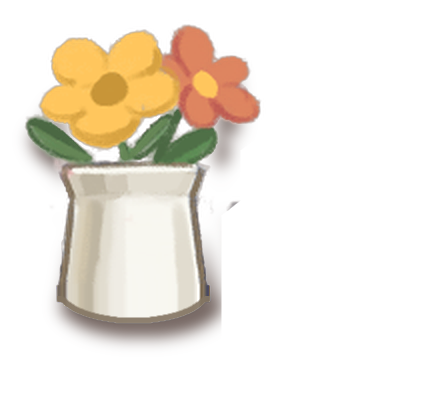
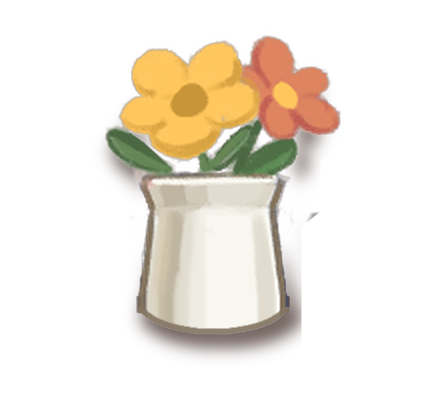
Pots re-centred in their sprite files (the table objects moved back the same amount); chapter 2 kitchen window: the coconut cluster with the apples' halo, a night view that fades with the day's clock (DayNightTint.CurrentStage)

diff --git a/Assets/Scripts/Kitchen/KitchenWindow.cs b/Assets/Scripts/Kitchen/KitchenWindow.cs
@@ -9,22 +9,7 @@ using UnityEngine.UI;
 public static class KitchenWindow
 {
     static readonly Vector2 GlassMin = new Vector2(0.502f, 0.556f), GlassMax = new Vector2(0.922f, 0.803f);
-    const float CoconutX = 0.55f, CoconutY = 0.60f;   // the cluster's place on the palm picture (measured on palm.png)
-
-    static Sprite glowSprite;
-    /// A soft round glow made once at runtime (like the map's three-star glow)
-    static Sprite GlowSprite()
-    {
-        if (glowSprite != null) return glowSprite;
-        const int n = 64; var tex = new Texture2D(n, n, TextureFormat.RGBA32, false) { filterMode = FilterMode.Bilinear };
-        var px = new Color[n * n];
-        for (var y = 0; y < n; y++) for (var x = 0; x < n; x++)
-        {
-            var dx = (x + 0.5f - n / 2f) / (n / 2f); var dy = (y + 0.5f - n / 2f) / (n / 2f);
-            var a = Mathf.Clamp01(1f - Mathf.Sqrt(dx * dx + dy * dy)); px[y * n + x] = new Color(1f, 1f, 1f, a * a * a);
-        }
-        tex.SetPixels(px); tex.Apply(); glowSprite = Sprite.Create(tex, new Rect(0, 0, n, n), new Vector2(0.5f, 0.5f)); return glowSprite;
-    }
+    const float ClusterX = 0.4035f, ClusterY = 0.6275f, ClusterW = 0.2953f, ClusterH = 0.1538f;   // the cluster's box on the palm picture (measured on palm.png)
 
     public static void Apply()
     {
@@ -58,14 +43,43 @@ public static class KitchenWindow
             var prt = (RectTransform)p.transform; prt.anchorMin = new Vector2(0f, 0f); prt.anchorMax = new Vector2(0f, 0f); prt.pivot = new Vector2(0f, 0f);
             var ph = glassH * 1.45f; prt.sizeDelta = new Vector2(ph * palm.rect.width / palm.rect.height, ph); prt.anchoredPosition = new Vector2(-glassW * 0.16f, -glassH * 0.25f);
             var pi = p.GetComponent<Image>(); pi.sprite = palm; pi.preserveAspect = true; pi.raycastTarget = false;
-            // the coconuts glow softly like the apples, so they read as something to pick (the pick object comes with the Coconut cluster)
-            var glow = new GameObject("CoconutGlow", typeof(RectTransform), typeof(Image)); glow.transform.SetParent(prt, false); glow.transform.SetAsFirstSibling();
-            var grt = (RectTransform)glow.transform; grt.anchorMin = grt.anchorMax = new Vector2(CoconutX, CoconutY); grt.sizeDelta = new Vector2(prt.sizeDelta.x * 0.42f, prt.sizeDelta.x * 0.42f);
-            var gi = glow.GetComponent<Image>(); gi.sprite = GlowSprite(); gi.color = new Color(1f, 0.95f, 0.6f, 0.85f); gi.raycastTarget = false;
-            glow.AddComponent<MapGlowPulse>();
+            // the coconut cluster as its own picture with the apples' halo baked in (Resources/Chapter2/coconuts, cut
+            // from the palm at its own spot), so it reads as something to pick; later the Coconut pick object
+            var cluster = Chapter.Art<Sprite>(2, "coconuts");
+            if (cluster != null)
+            {
+                var c = new GameObject("Coconuts", typeof(RectTransform), typeof(Image)); c.transform.SetParent(prt, false);
+                var crt = (RectTransform)c.transform; crt.anchorMin = crt.anchorMax = new Vector2(ClusterX, ClusterY); crt.pivot = new Vector2(0.5f, 0.5f);
+                crt.sizeDelta = new Vector2(prt.sizeDelta.x * ClusterW, prt.sizeDelta.y * ClusterH); crt.anchoredPosition = Vector2.zero;
+                var ci = c.GetComponent<Image>(); ci.sprite = cluster; ci.preserveAspect = true; ci.raycastTarget = false;
+            }
+        }
+
+        // night through the glass (owner, 16 October): the painted beach night fades in over the day picture as the
+        // day's clock reaches dusk and night, and the palm darkens with it
+        var night = Chapter.Art<Sprite>(2, "bg_night");
+        if (night != null)
+        {
+            var nv = new GameObject("BeachNight", typeof(RectTransform), typeof(Image)); nv.transform.SetParent(rt, false); nv.transform.SetSiblingIndex(1);
+            var nrt = (RectTransform)nv.transform; nrt.anchorMin = vrt.anchorMin; nrt.anchorMax = vrt.anchorMax; nrt.sizeDelta = vrt.sizeDelta; nrt.anchoredPosition = vrt.anchoredPosition;
+            var ni = nv.GetComponent<Image>(); ni.sprite = night; ni.preserveAspect = true; ni.raycastTarget = false; ni.color = new Color(1f, 1f, 1f, 0f);
+            var fade = go.AddComponent<KitchenWindowNight>(); fade.night = ni; fade.palm = rt.Find("Palm") != null ? rt.Find("Palm").GetComponent<Image>() : null;
         }
 
         // the apple tree is chapter 1's
         var tree = bg.Find("tree"); if (tree != null) tree.gameObject.SetActive(false);
+    }
+}
+
+/// Fades the night picture in the chapter 2 kitchen window with the day's clock and dims the palm
+public class KitchenWindowNight : MonoBehaviour
+{
+    public Image night, palm;
+    private void Update()
+    {
+        var st = DayNightTint.CurrentStage;
+        var a = st <= 1f ? 0.5f * st : 0.5f + 0.5f * (st - 1f);
+        if (night != null) night.color = new Color(1f, 1f, 1f, a);
+        if (palm != null) palm.color = Color.Lerp(Color.white, new Color(0.45f, 0.5f, 0.7f), a);
     }
 }

diff --git a/Assets/Scripts/LevelControl/DayNightTint.cs b/Assets/Scripts/LevelControl/DayNightTint.cs
@@ -37,11 +37,15 @@ public class DayNightTint : MonoBehaviour
     private static readonly Color WindowNight = new Color(0.07f, 0.09f, 0.36f, 0.78f);
 
     private float stage;        // 0 = day, 1 = dusk, 2 = night (fractional while fading)
+    private static DayNightTint current;
+    /// The running day's stage for other scenes (the chapter 2 kitchen window fades its night picture by it)
+    public static float CurrentStage => current != null ? current.stage : 0f;
 
     private static Sprite starSprite;
 
     public void Begin(OrderSystem os)
     {
+        current = this;
         orderSystem = os;
 
         var canvasGo = GameObject.Find("Canvas");
